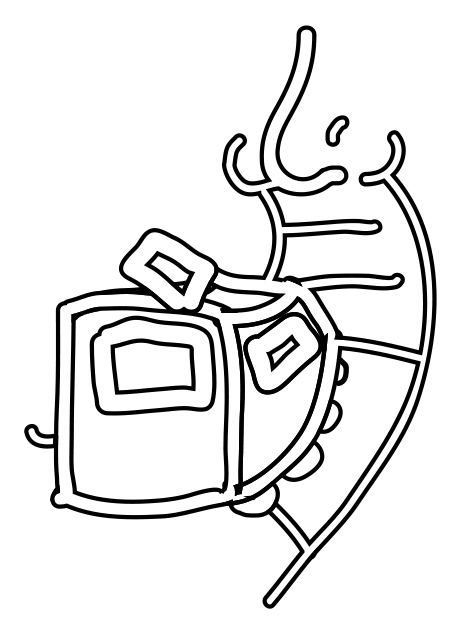
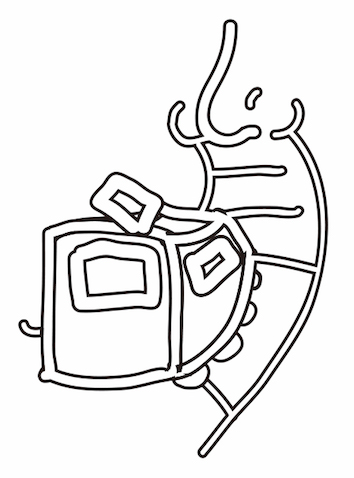
add

Changed region(s): [[0.0311, 0.0293, 0.9322, 0.9665], [0.6836, 0.1757, 0.7458, 0.2343], [0.5593, 0.6151, 0.5904, 0.6444]]

diff --git a/zai.html b/zai.html
@@ -96,8 +96,10 @@
 <img src="./hade.jpg" alt="">
 <h4>順番</h4>
 <ul>
-<li>白黒で画像をイラレで作る</li>
+<li>画像を作る</li>
+<li>パスのアウトライン化をする</li>
 <li>シェイプ形成ツールで重複されている線を消す</li>
+<li>ファイルをepsデータで作る</li>
 </ul>
 
 <h1>3講時</h1>
